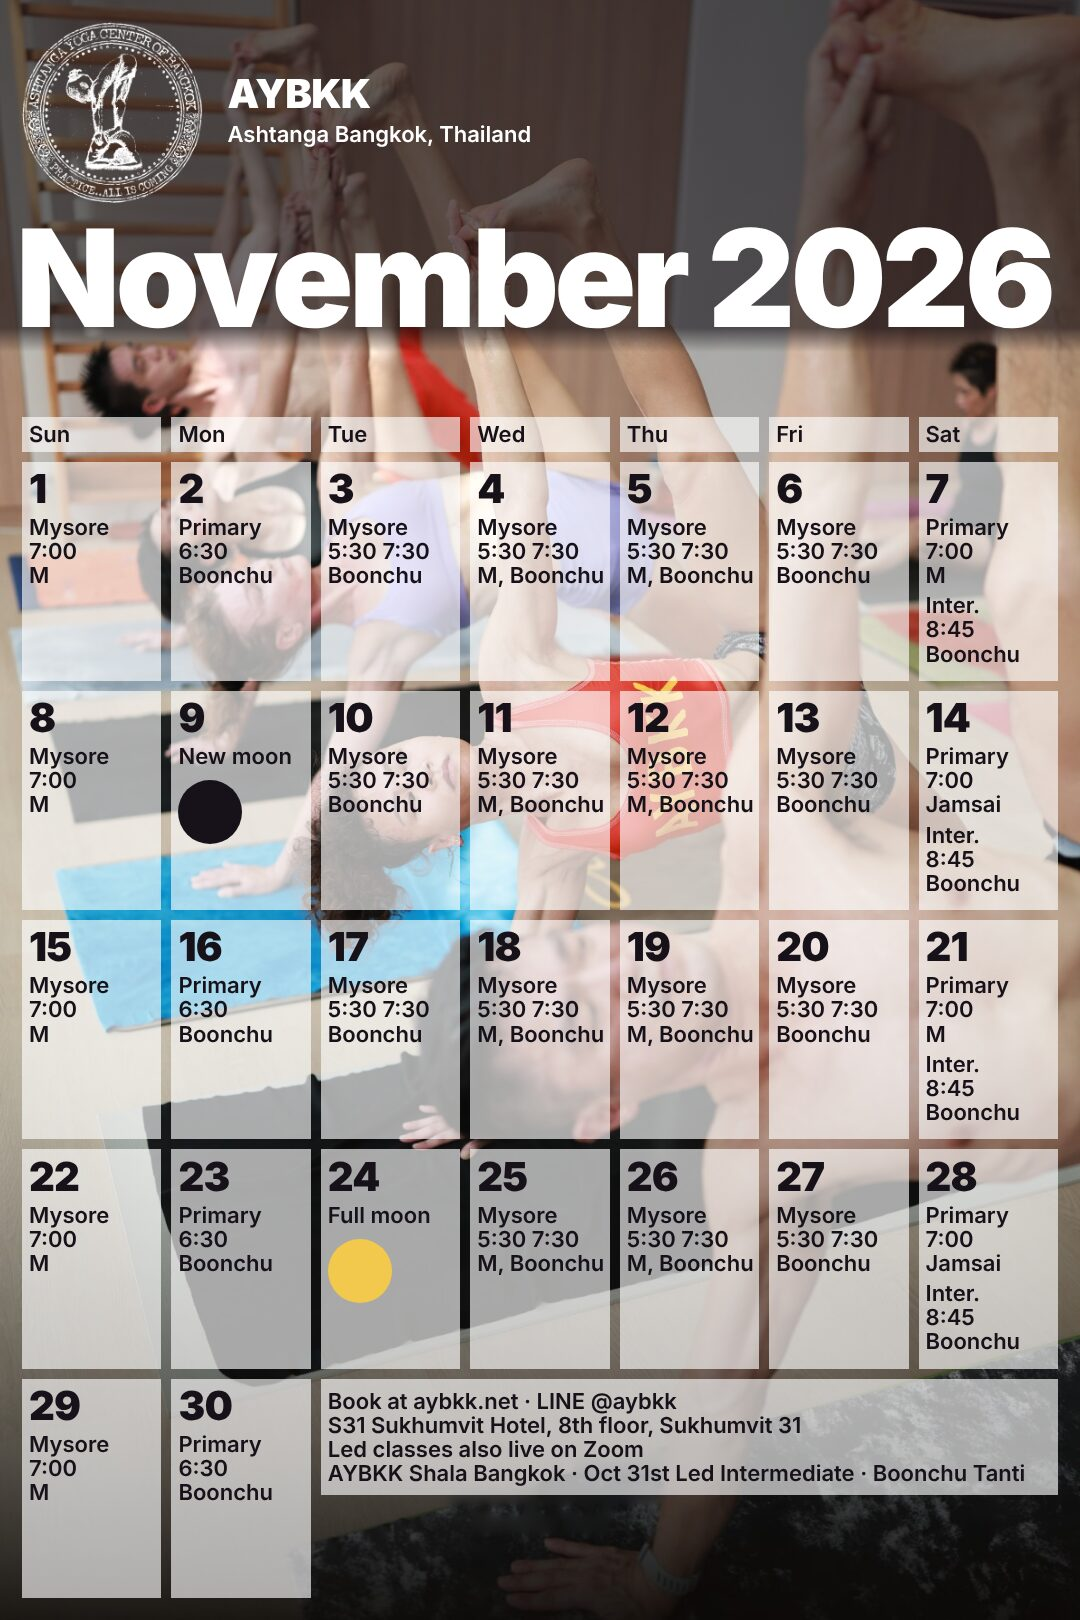
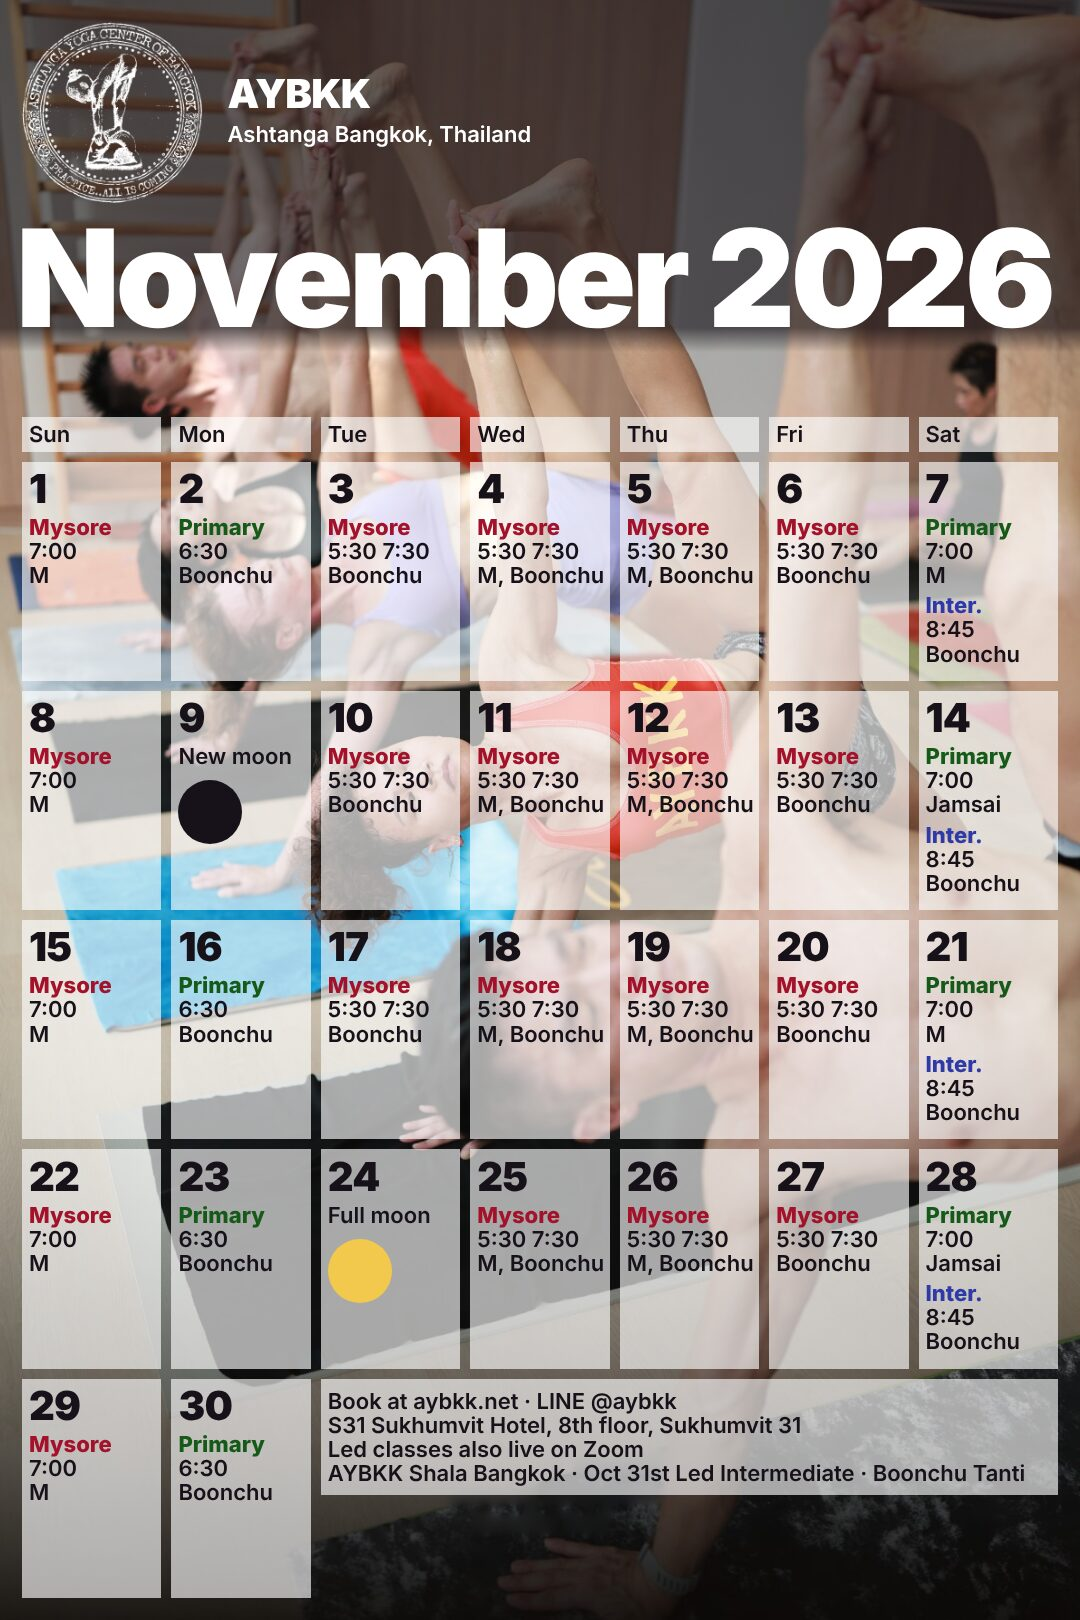
timetable-poster: class names in their own colours again (Mysore red, Primary green, Inter. blue; Boonchu, 2 Nov)

diff --git a/bots/tools/timetable-poster/template.html b/bots/tools/timetable-poster/template.html
@@ -16,13 +16,14 @@ html,body{margin:0;background:#17121a}
 /* Tall: the feed's calendar block, same height, at the bottom; the photo above it is the header. */
 #p.size-tall{--block:calc(1350px - 2 * var(--m));--top:calc(var(--H) - var(--m) - var(--block));--bot:var(--m);--date:40px;--bigmax:150px}
 
-/* One ink per look. Class colours, if ever wanted, go in --k-mysore / --k-led_primary / --k-led_inter. */
+/* One ink per look, except the class names: each class keeps its own colour, the booking page's
+   (Boonchu, 2 Nov). On the bright boxes the same hues are darkened to read over any part of the photo. */
 #p.look-A,#p.look-C{--ink:#17121a;--title:#17121a;--tile:rgba(255,255,255,.64);--panel:rgba(255,255,255,.64);--scrim:transparent;
-  --k-mysore:var(--ink);--k-led_primary:var(--ink);--k-led_inter:var(--ink)}
+  --k-mysore:#A3122A;--k-led_primary:#155A18;--k-led_inter:#2E3AA8}
 /* C: Look A's calendar; white title and header on a scrim that stops above the weekday heads. */
 #p.look-C{--title:#fff;--scrim:rgba(14,10,16,.6)}
 #p.look-B{--ink:#fff;--title:#fff;--tile:rgba(255,255,255,.16);--panel:transparent;--scrim:rgba(14,10,16,.68);
-  --k-mysore:#fff;--k-led_primary:#fff;--k-led_inter:#fff}
+  --k-mysore:#FC838B;--k-led_primary:#8BFC83;--k-led_inter:#9AA2FF}
 
 .ph{position:absolute;inset:0;width:100%;height:100%;object-fit:cover}
 .scrim{position:absolute;inset:0;background:var(--scrim)}
@@ -61,6 +62,8 @@ h1{margin:0 0 var(--tgap);font-weight:900;font-size:var(--big,140px);line-height
 .look-B .tile .mn.new{background:#0e0a10;box-shadow:inset 0 0 0 3px #F2C94C}
 .wrap p{white-space:normal}
 .k{color:var(--kc,inherit)}
+/* Bold so the coloured class names read over the darkest part of the photo too. */
+.tile .k{font-weight:800}
 .k.mysore{--kc:var(--k-mysore)}.k.led_primary{--kc:var(--k-led_primary)}.k.led_inter{--kc:var(--k-led_inter)}
 
 .foot{padding:var(--pady) var(--padx);overflow:hidden;min-height:0}

diff --git a/bots/tools/timetable-poster/README.md b/bots/tools/timetable-poster/README.md
@@ -100,6 +100,7 @@ took and how far the month name moved up. Exit code 1 means a CHECK or a WARNING
 - One white see-through tile per date, Sunday first. Each tile: date, then per class type its
   short name (Mysore / Primary / Inter., Thai มายซอร์, as on the booking page), start times,
   teachers in time order ("5:30 7:30" then "M, Boonchu" means M at 5:30). Shala classes only.
+  Class names keep the booking page colours (Boonchu, 2 Nov): Mysore red, Primary green, Inter. blue, darkened on the bright boxes (A, C: #A3122A, #155A18, #2E3AA8, bold), light on B (#FC838B, #8BFC83, #9AA2FF).
   Moon days: date, "New moon" or "Full moon" (EN) and a dark or a full yellow moon (Boonchu, 2 Nov), or the booking page's own words in TH: "จันทร์ดับ"
   (new moon) / "จันทร์เต็มดวง" (full moon). No classes on them. No tile for days outside the month.
 - Footer, in the month's empty days when there is room, else a band at the bottom:
